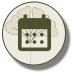
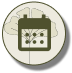
fix buttons position and sizing bug

diff --git a/src/routes/3/majlis-pernikahan-ummar-dan-puteri/+page.svelte b/src/routes/3/majlis-pernikahan-ummar-dan-puteri/+page.svelte
@@ -6,9 +6,7 @@
   import greetings from "$lib/images/greetings.jpg";
   import majlisBertandang from "$lib/images/majlis-bertandang.jpg";
   import locationButton from "$lib/images/location-button.png";
-  import locationButtonSmall from "$lib/images/location-button-sm.png";
   import calendarButton from "$lib/images/calendar-button.png";
-  import calendarButtonSmall from "$lib/images/calendar-button-sm.png";
 
   const modalStore = getModalStore();
 
@@ -173,14 +171,14 @@
         class="btn rounded-full"
         on:click={handleCalendarButtonClicked}
       >
-        <img src={locationButton} alt="View location" />
+        <img src={calendarButton} alt="View location" />
       </button>
       <button
         id="location-button"
         class="btn rounded-full"
         on:click={handleLocationButtonClicked}
       >
-        <img src={calendarButton} alt="Save to calendar" />
+        <img src={locationButton} alt="Save to calendar" />
       </button>
     </div>
   </div>
@@ -208,18 +206,10 @@
       opacity: 0;
     }
   }
-  #calendar-button:active,
-  #location-button:active {
-    transform: translateY(4px);
-  }
   #calendar-button {
-    height: fit-content;
-    width: fit-content;
     image-rendering: crisp-edges;
   }
   #location-button {
-    height: fit-content;
-    width: fit-content;
     image-rendering: crisp-edges;
   }
   #majlis-bertandang-img {
@@ -235,16 +225,25 @@
   }
   .buttons {
     position: absolute;
-    top: 60%; /* Adjust this value to move the buttons higher or lower */
+    top: 55%; /* Adjust this value to move the buttons higher or lower */
     left: 50%;
     transform: translate(-50%, -50%);
     display: flex;
-    gap: 5px; /* Adjust the gap between the buttons */
+    gap: 10px; /* Adjust the gap between the buttons */
   }
   .btn {
     display: flex;
     align-items: center;
     justify-content: center;
+    width: 90px; /* Set a fixed width for the buttons */
+    height: 90px; /* Set a fixed height for the buttons */
+    transition: transform 0.3s ease; /* Add transition for smooth scaling */
+  }
+
+  .btn:active {
+    transform: scale(
+      0.95
+    ); /* Optional: Add a slight scale down effect on click */
   }
   .wedding-card {
     display: block;
